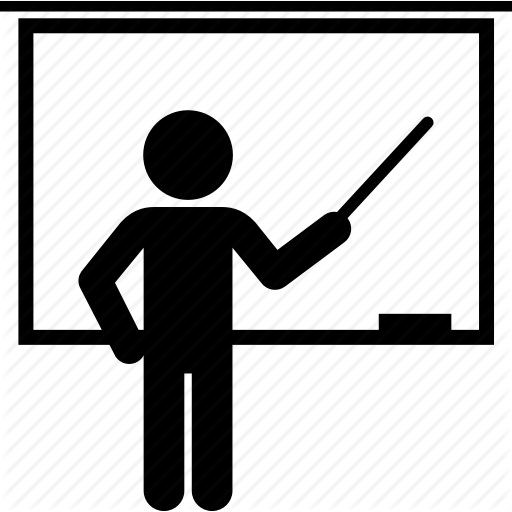
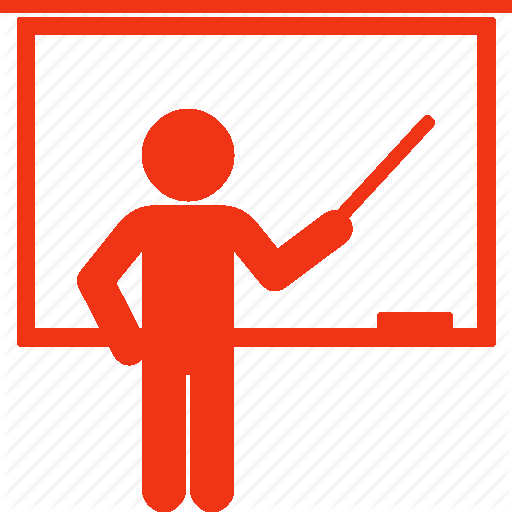
updated services

diff --git a/src/pages/index.js b/src/pages/index.js
@@ -14,7 +14,7 @@ const IndexPage = ({ data }) => {
 
   return (
     <Layout>
-      <SEO title="Home" keywords={[`aspen`, `applications`, `web`, `mobile`, `app`, `development`]} />
+      <SEO title="Aspen Marketing" keywords={[`aspen`, `marketing`, `website`, `development`]} />
       <div className="landing-header">
         <Img fluid={data.file.childImageSharp.fluid} className="header-image" style={{ position: `absolute` }} />
         <div className="header-overlay"></div>
@@ -32,7 +32,7 @@ const IndexPage = ({ data }) => {
       <div className="slant">
         <div className="slant-container text-center">
           <h2 className="red-font page-title">How Can We Help You?</h2>
-          <h4 style={{ maxWidth: `70%`, textAlign: `center`, margin: `15px auto`, fontSize: `20px` }}>We are a full service digital media and web app development agency.</h4>
+          <h4 style={{ maxWidth: `70%`, textAlign: `center`, margin: `15px auto`, fontSize: `20px` }}>We are a full service digital marketing agency located in Aspen, Colorado.</h4>
         </div>
       </div>
 
@@ -116,7 +116,7 @@ const IndexPage = ({ data }) => {
         </Row>
       </div>
 
-      <Divider button="See More Of Our Work" address="/our-work/" />
+      <Divider button="See More Of Our Work" address="/portfolio/" />
 
       <div className="page-container">
         <Row className="no-gutters justify-content-center">
@@ -158,28 +158,28 @@ export const listQuery = graphql`
   query {
     file(name: { eq: "capital" }) {
       childImageSharp {
-        fluid(maxWidth: 3000, quality: 100) {
+        fluid(quality: 100) {
           ...GatsbyImageSharpFluid
         }
       }
     }
     marketing: file(name: { eq: "marketing" }) {
       childImageSharp {
-        fluid(maxWidth: 1000, quality: 100) {
+        fluid(quality: 100) {
           ...GatsbyImageSharpFluid
         }
       }
     }
     creative: file(name: { eq: "light" }) {
       childImageSharp {
-        fluid(maxWidth: 1000, quality: 100) {
+        fluid(quality: 100) {
           ...GatsbyImageSharpFluid
         }
       }
     }
     tech: file(name: { eq: "tech" }) {
       childImageSharp {
-        fluid(maxWidth: 1000, quality: 100) {
+        fluid(quality: 100) {
           ...GatsbyImageSharpFluid
         }
       }

diff --git a/src/templates/consulting.js b/src/templates/consulting.js
@@ -12,13 +12,13 @@ export default ({ data }) => {
 
     return (
         <Layout>
-            <SEO title="Consulting" keywords={[`aspen`, `applications`, `consulting`, `technology`, `colorado`]} />
+            <SEO title="Consulting" keywords={[`aspen`, `marketing`, `website`, `technology`, `consulting`]} />
 
             <div className="page-container">
         <div style={{ maxWidth: `960px`, margin: `0 auto` }}>
 
-                <h1 style={{ textAlign: `center` }} className="red-font page-title">Technology Consulting</h1>
-                <h5 style={{ textAlign: `center` }}>Ways We Engage...</h5>
+                <h1 style={{ textAlign: `center` }} className="red-font page-title">Consulting</h1>
+                <h5 style={{ textAlign: `center` }}>Our consulting services...</h5>
                 {data.markdownRemark.frontmatter.features.map((feature, index) => {
                     return (
                         <>
@@ -50,7 +50,7 @@ export default ({ data }) => {
                     <Col xs="12" lg="6">
                         <h2 className="red-font page-title">Advice From The Nerds</h2>
                         <p className="page-text">
-                            We know nothing about cars and that's why go to our local mechanic for advice about cars. However, we know a lot about technology and that's why we proudly offer advice to those who don't.
+                            We know nothing about cars and that's why we go to our local mechanic for advice about cars. However, we know a lot about technology and that's why we proudly offer advice to those who don't.
                             Technology is our passion, we love what it can do and the tools that it provides.
                         </p>
                     </Col>

diff --git a/src/styles/index.css b/src/styles/index.css
@@ -3,8 +3,6 @@
 }
 
 .content-container {
-  /* max-width: 960px;
-  margin: 0 auto; */
   padding: 25px;
 }
 
@@ -93,22 +91,32 @@
 }
 
 .green-button {
-  background: forestgreen;
+  background: forestgreen!important;
 }
 
 .green-button:hover {
-  border: 2px solid #f03517;
-  background: none;
+  border: 2px solid #f03517!important;
+  background: none!important;
 }
 
 .red-button {
-  border: 2px solid #f03517;
-  background: none;
+  border: 2px solid #f03517!important;
+  background: none!important;
 }
 
 .red-button:hover {
-  border-color: forestgreen;
-  background: forestgreen;
+  border-color: forestgreen!important;
+  background: forestgreen!important;
+}
+
+.card-button {
+  border: 2px solid #f03517!important;
+  background: #f03517!important;
+}
+
+.card-button:hover {
+  background: none!important;
+  color: #f03517!important;
 }
 
 .divider-line {
@@ -125,15 +133,15 @@
 
 .divider-button {
   margin: 0 auto;
-  background-color: white;
-  border: 1px solid #f03517;
-  color: #f03517;
+  background-color: white!important;
+  border: 1px solid #f03517!important;
+  color: #f03517!important;
 }
 
 .divider-button:hover {
-  background-color: #f03517;
-  border: 1px solid #f03517;
-  color: #ffffff
+  background-color: #f03517!important;
+  border: 1px solid #f03517!important;
+  color: #ffffff!important;
 }
 
 .accordian-wrapper {

diff --git a/src/templates/website-design.js b/src/templates/website-design.js
@@ -14,7 +14,7 @@ const ServicesPage = ({ data }) => {
 
   return (
     <Layout>
-      <SEO title="Web Design" keywords={[`aspen`, `applications`, `website`, `pwa`, `design`, `development`]} />
+      <SEO title="Web Design" keywords={[`aspen`, `marketing`, `website`, `design`, `development`]} />
       <div className="page-container">
         <div style={{ maxWidth: `960px`, margin: `0 auto` }}>
           <h2 style={{ textAlign: `center` }} className="red-font page-title">Website Design & Development</h2>
@@ -75,7 +75,7 @@ const ServicesPage = ({ data }) => {
                     ))}
                     <div className="accordian-cell">
                       <Link to={node.node.fields.slug}>
-                        <Button className="red-button" style={{ background: `#f03517` }}>Learn More</Button>
+                        <Button className="card-button">Learn More</Button>
                       </Link>
                     </div>
                   </div>
@@ -157,7 +157,7 @@ query($slug: String!) {
           title
           image {
             childImageSharp {
-              fluid(maxWidth: 1000, quality: 100) {
+              fluid(quality: 100) {
                 ...GatsbyImageSharpFluid
               }
             }

diff --git a/src/components/portfolio-card.js b/src/components/portfolio-card.js
@@ -10,7 +10,7 @@ function PortfolioCard ({ project, cardKey}) {
     <Col xs="12" sm="6">
       <div style={{padding:(cardKey % 2 === 0 ? `10px 10px 10px 0px` : `10px 0px 10px 10px`)}}>
         <div className="card-border">
-        <a href={project.address} style={{textDecoration:`none`}}>
+        <a href={project.address} style={{textDecoration:`none`}} target="_blank" rel="noopener noreferrer">
           <div style={{position:`relative`, overflow:`hidden`}} className="portfolio-container">
             <div className="portfolio-overlay" style={{position:`absolute`}}>
               {/* <h3 className="card-title card-lg-title mb-0 d-none d-xl-block" style={{color:`white`}}>{project.title}</h3> */}

diff --git a/gatsby-config.js b/gatsby-config.js
@@ -1,7 +1,7 @@
 module.exports = {
   siteMetadata: {
-    title: `Aspen Apps`,
-    description: `A web and mobile application development company.`,
+    title: `Aspen Digital Marketing`,
+    description: `A full service digital marketing agency in Aspen, Colorado.`,
     author: `@jaksik`,
   },
   plugins: [
@@ -46,8 +46,8 @@ module.exports = {
     {
       resolve: `gatsby-plugin-manifest`,
       options: {
-        name: `aspen-applications`,
-        short_name: `aspen`,
+        name: `aspen-digital-marketing`,
+        short_name: `aspendm`,
         start_url: `/`,
         background_color: `#663399`,
         theme_color: `#ffffff`,

diff --git a/src/components/footer.js b/src/components/footer.js
@@ -18,8 +18,7 @@ const Footer = () => (
                 <Col xs="12" sm="4" lg="3">
                     <h3 className="footer-title">Our Services</h3>
                     <Link className="footer-item" to="/web-design/"><p>Web Design</p></Link>
-                    <Link className="footer-item" to="/web-design/"><p>Graphic Design</p></Link>
-                    <Link className="footer-item" to="/web-design/"><p>Tech Consulting</p></Link>
+                    <Link className="footer-item" to="/consulting/"><p>Tech Consulting</p></Link>
                 </Col>
 
                 <Col xs="12" md="4" lg="3">

diff --git a/src/templates/our-work.js b/src/templates/our-work.js
@@ -11,7 +11,7 @@ export default ({ data }) => {
 
   return (
     <Layout>
-      <SEO title="Our Work" keywords={[`aspen`, `applications`, `portfolio`, `web`, `mobile`, `app`, `development`]} />
+      <SEO title="Our Work" keywords={[`aspen`, `digital`, `marketing`, `portfolio`]} />
         <div className="page-container">
             <h1 className="red-font page-title" style={{textAlign:`center`}}>Our Work</h1>
             <h5 className="text-center mb-3">Let's Play Show and Tell</h5>

diff --git a/src/templates/legal.js b/src/templates/legal.js
@@ -10,7 +10,7 @@ export default ({ data }) => {
 
   return (
     <Layout>
-      <SEO title={frontmatter.subTitle} keywords={[`aspen`, `applications`, `website`, `pwa`, `design`, `development`, `package`]} />
+      <SEO title={frontmatter.subTitle} />
       <div className="content-container" style={{maxWidth:`960px`, margin:`0 auto`}}>
         <h1>{info.frontmatter.title}</h1>
         <div dangerouslySetInnerHTML={{ __html: info.html }} />

diff --git a/src/templates/product.js b/src/templates/product.js
@@ -13,7 +13,7 @@ export default ({ data }) => {
 
   return (
     <Layout>
-      <SEO title={frontmatter.subTitle} keywords={[`aspen`, `applications`, `website`, `pwa`, `design`, `development`, `package`]} />
+      <SEO title={frontmatter.subTitle} keywords={[`aspen`, `marketing`, `website`, `pwa`, `design`, `development`]} />
       <div className="page-container">
         <Row className="no-gutters">
           <Col xs="12" lg="8">

diff --git a/src/pages/contact.js b/src/pages/contact.js
@@ -11,7 +11,7 @@ import "./contact.css"
 const ContactPage = ({ data }) => {
   return (
     <Layout>
-      <SEO title="Contact" keywords={[`aspen`, `applications`, `contact`, `web`, `mobile`, `app`, `development`]} />
+      <SEO title="Contact" keywords={[`aspen`, `digital`, `marketing`, `contact`]} />
       <div className="page-container">
         <Row className="no-gutters">
           <Col xs="12" lg="8">

diff --git a/src/pages/about.js b/src/pages/about.js
@@ -10,7 +10,7 @@ const AboutPage = () => {
     return (
         <Layout>
 
-            <SEO title="About" keywords={[`aspen`, `applications`, `web`, `mobile`, `app`, `development`]} />
+            <SEO title="About" keywords={[`aspen`, `marketing`, `digital`]} />
             <div className="page-container">
                 <Row className="no-gutters mt-5 mb-5">
                     <Col xs="12" xl="6">
